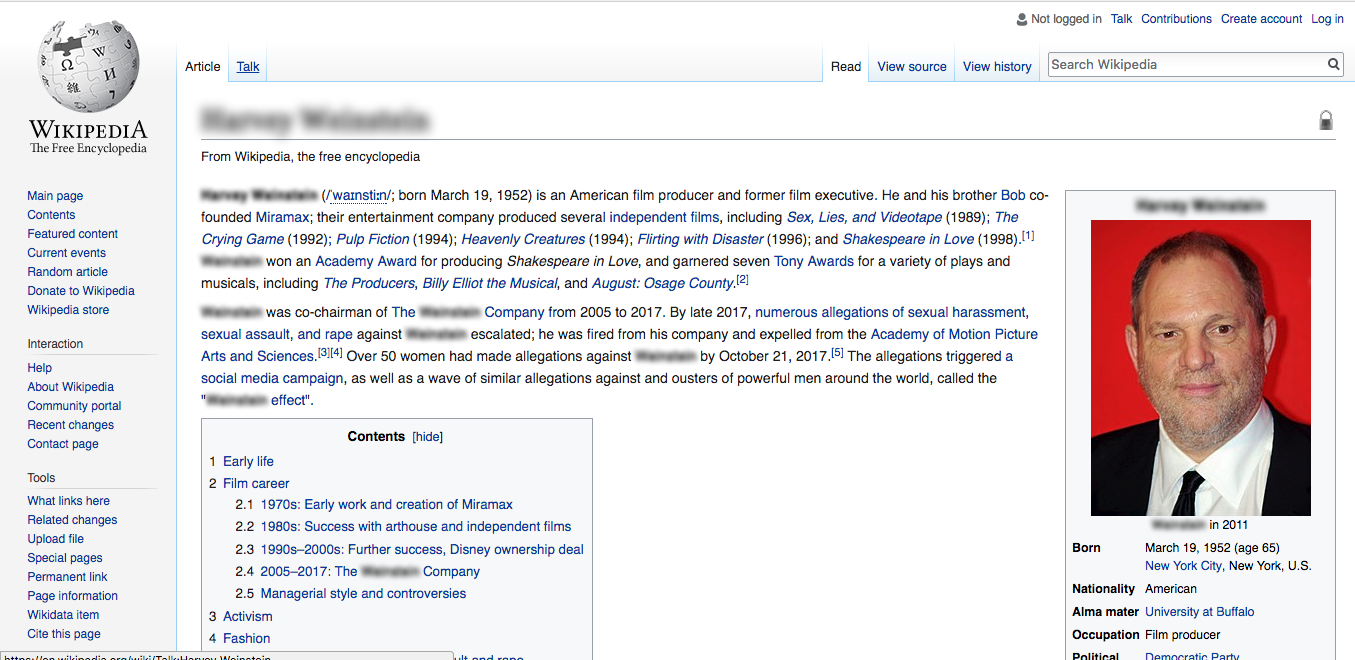
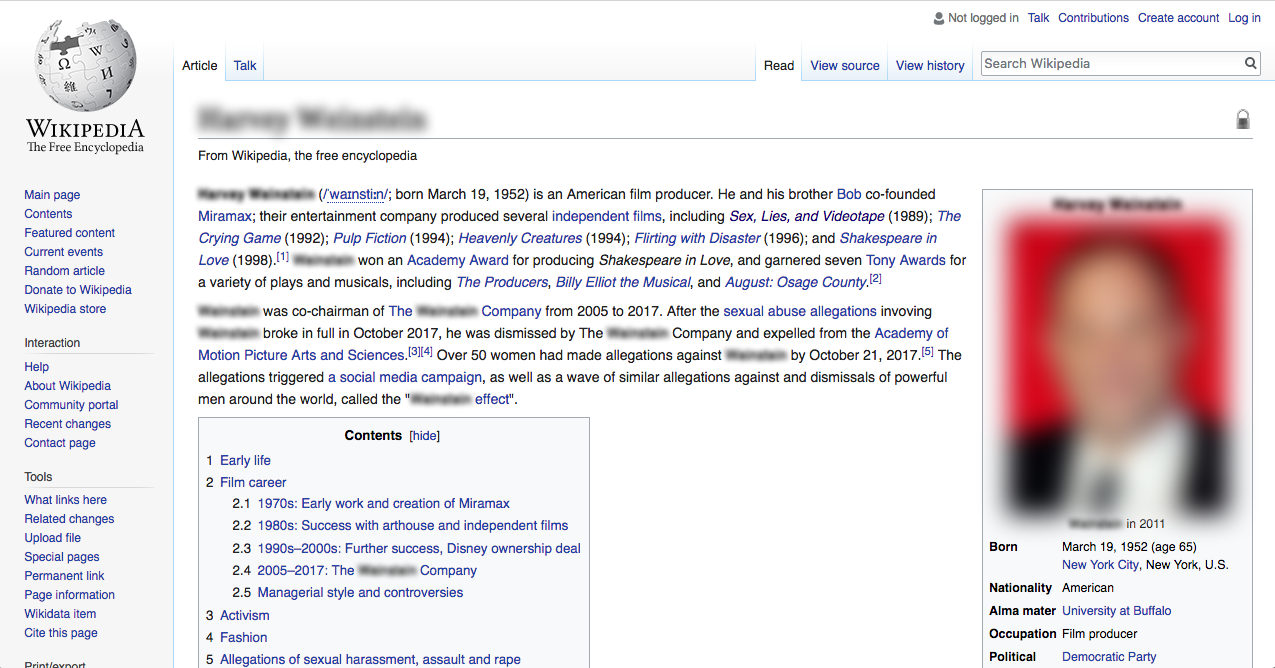
rudimentary version of image blocking

Changed region(s): [[0.0, 0.2727, 0.9788, 1.0], [0.0, 0.0, 1.0, 0.2424], [0.5812, 0.0, 1.0, 0.1212]]

diff --git a/content.js b/content.js
@@ -1,5 +1,6 @@
 const GENERIC_IDENTIFIER = "Someone"
 const BLOCKLIST_TYPE = "SYNC"
+const MIN_IMG_WIDTH = 75
 
 /*  
  *  loadBlockList
@@ -51,21 +52,47 @@ function loadDocumentTitleNode() {
  *  return array of match objects
  */
 var scanner = (function() {
-    regex = null
+    regexText = null
+    regexImg = null
+
+    function imgify(blockedList) {
+        let chars = ["", "_", "%20", "-", "--", "__"]
+        var blockedListImgify = []
+
+        blockedList.forEach((word) => {
+            if(/ /g.test(word)) {
+                chars.forEach((char) => {
+                    blockedListImgify.push(word.replace(/ /g, char))
+                })
+            } else {
+                blockedListImgify.push(word)
+            }
+        })
+
+        return blockedListImgify
+    }
+
+    function scan(regex, text) {
+        var matches = [];
+        var match = regex.exec(text);
+
+        while (match != null) {
+            matches.push(match);
+            match = regex.exec(text);
+        }
+        return matches
+    }
 
     return {
         setBlockedList: function(blockedList) {
-            regex = new RegExp(blockedList.join("|"), 'gi')
+            regexText = new RegExp(blockedList.join("|"), 'gi')
+            regexImg = new RegExp(imgify(blockedList).join("|"), 'gi')
         },
-        scan: function(text) {
-            var matches = [];
-            var match = regex.exec(text);
-
-            while (match != null) {
-                matches.push(match);
-                match = regex.exec(text);
-            }
-            return matches
+        scanText: function(text) {
+            return scan(regexText, text)
+        },
+        scanImageText: function(text) {
+            return scan(regexImg, text)
         }
     }
 })()
@@ -81,6 +108,41 @@ function blockTitle(matchObjectArray) {
 
     chrome.runtime.sendMessage({newTitle: newTitle}, function(response) {});
 }
+
+/*  
+ *  getSuspectImages 
+ *  @param scanner
+ */
+ function getSuspectImages(scanner) {
+    let highProbability = []
+    let lowProbability = []
+
+    // Filter Size
+    Array.from(document.images).forEach((img) => {
+        var altValue = img.attributes.alt ? img.attributes.alt.nodeValue : ""
+        var srcValue = img.attributes.src ? img.attributes.src.nodeValue : ""
+        var altScan = scanner.scanImageText(altValue)
+        var srcScan = scanner.scanImageText(srcValue)
+
+        if(altScan.length > 0 || srcScan.length > 0) {
+            highProbability.push(img)
+        } else {
+            if(img.clientWidth >= MIN_IMG_WIDTH) {
+                lowProbability.push(img)
+            }
+        }
+    })
+
+    return { highProbability, lowProbability }  
+ }
+
+ /*  
+ *  blockImage - Block the image
+ *  @param - node
+ */
+ function blockImage(node) {
+    node.style.filter = "blur(13px)"
+ }
 
 /*  
  *  block - Block the matching word
@@ -115,7 +177,7 @@ function blockText(node, matchObject, i) {
 function launchBlocker(treeWalker, documentTitleNode, scanner) {
     // Scan & Update Title
     if(documentTitleNode) {
-        let scannedTitle = scanner.scan(documentTitleNode.text)
+        let scannedTitle = scanner.scanText(documentTitleNode.text)
         if(scannedTitle.length > 0) blockTitle(scannedTitle)
     } else {
         console.log("Could not parse document.title...")
@@ -124,7 +186,7 @@ function launchBlocker(treeWalker, documentTitleNode, scanner) {
     // Scan & Update Tree
     if(treeWalker) {
         while(node = treeWalker.nextNode()){
-            let scannedNode = scanner.scan(node.nodeValue)
+            let scannedNode = scanner.scanText(node.nodeValue)
             if(scannedNode.length > 0) {
                 let i = 0
                 scannedNode.forEach(matchObject => {
@@ -135,10 +197,18 @@ function launchBlocker(treeWalker, documentTitleNode, scanner) {
     } else {
         console.log("Could not parse DOM...")
     }
+
+    // Scan Images
+    var suspectImages = getSuspectImages(scanner)
+    console.log(suspectImages)
+    suspectImages.highProbability.forEach(node => {
+        blockImage(node)
+    })
 }
 
 /*
  *  Listen for Messages from background.js
+ *  Notification when onDOMContentLoaded
  */
 chrome.runtime.onMessage.addListener(function(request, sender, sendResponse) {
     if(request.message == "onDOMContentLoaded") {
